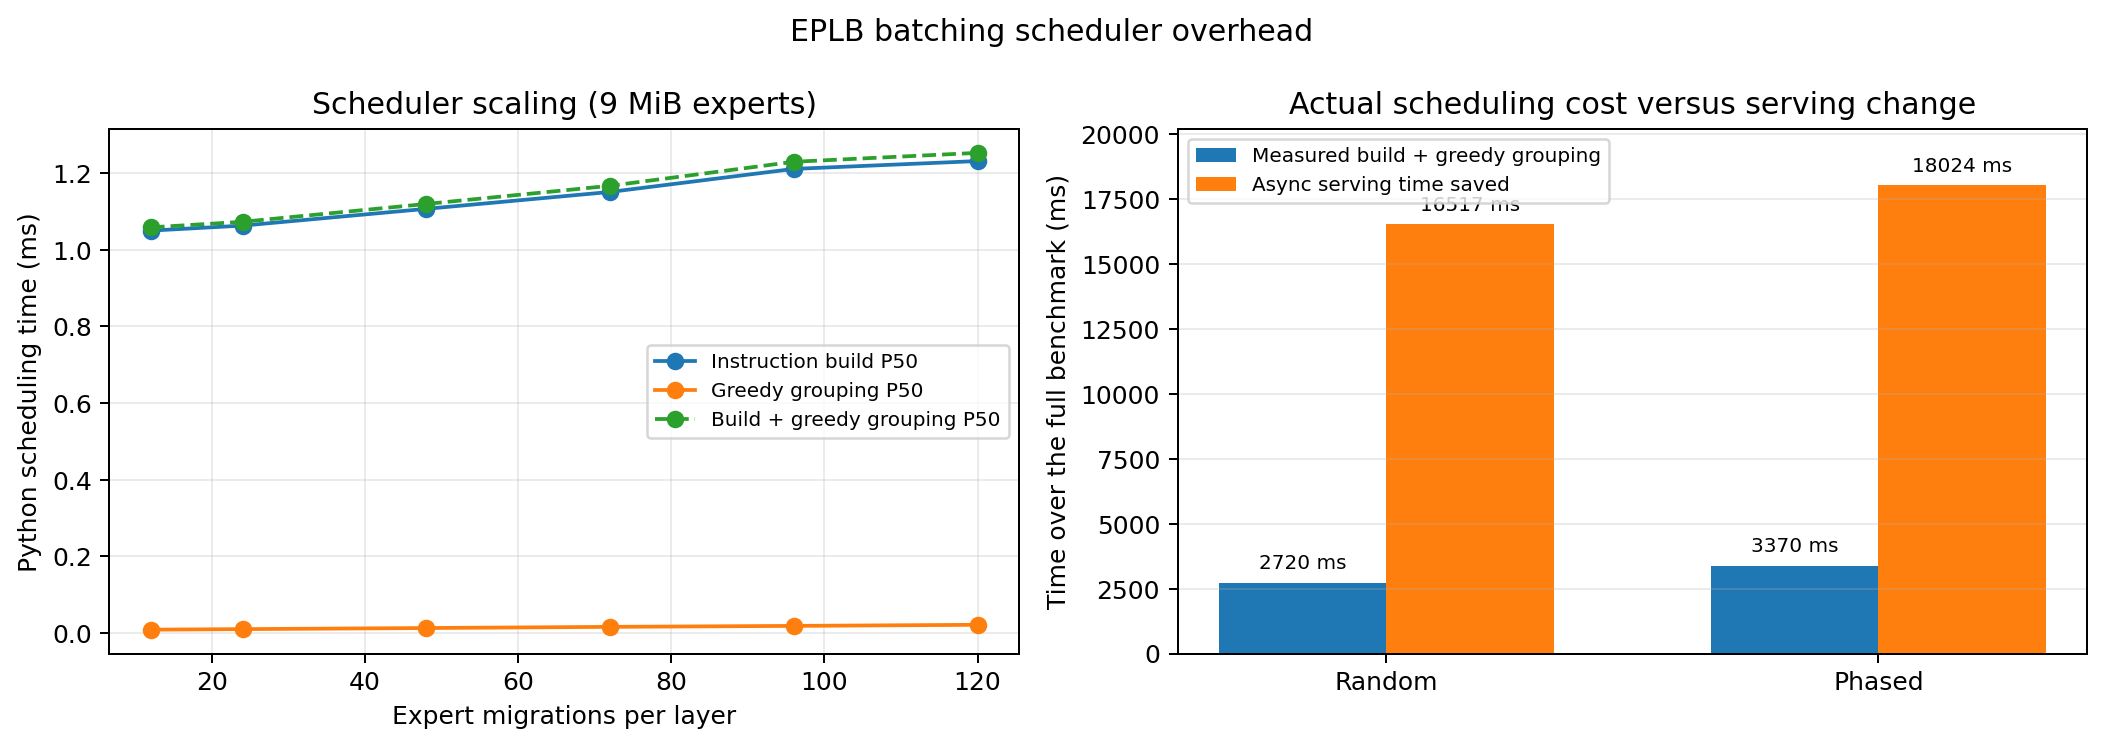
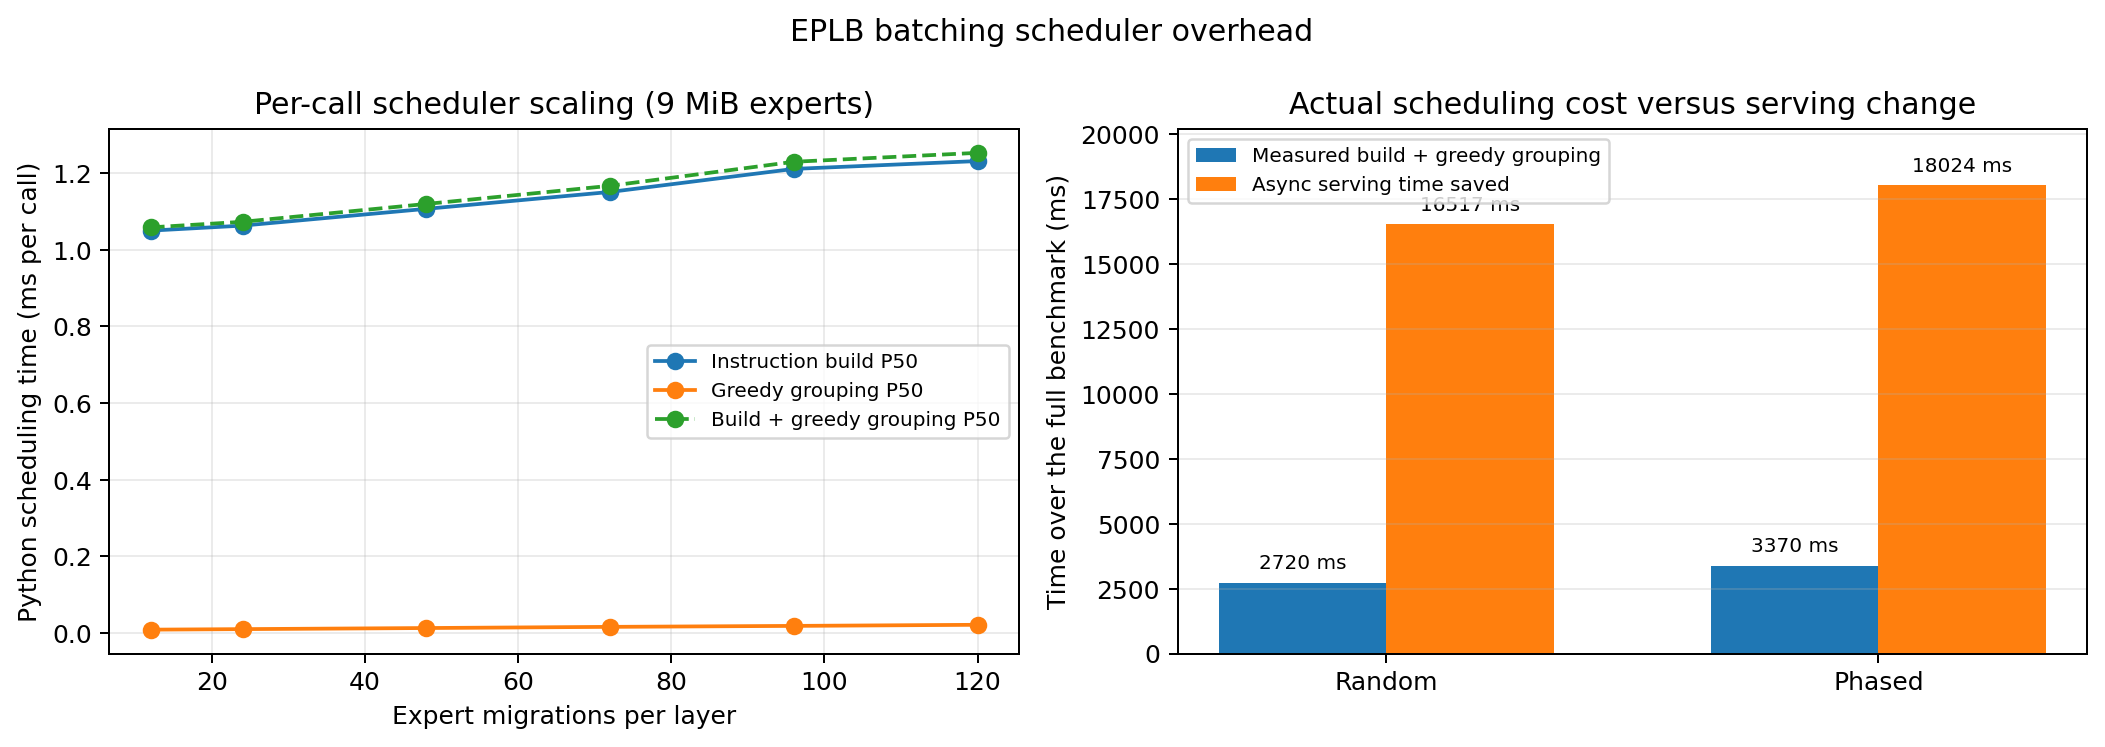
Clarify per-call scheduler profile units

diff --git a/benchmarks/eplb_rebalance/analyze_scheduler_scaling.py b/benchmarks/eplb_rebalance/analyze_scheduler_scaling.py
@@ -128,8 +128,8 @@ def plot(
         label="Build + greedy grouping P50",
     )
     scheduler.set_xlabel("Expert migrations per layer")
-    scheduler.set_ylabel("Python scheduling time (ms)")
-    scheduler.set_title("Scheduler scaling (9 MiB experts)")
+    scheduler.set_ylabel("Python scheduling time (ms per call)")
+    scheduler.set_title("Per-call scheduler scaling (9 MiB experts)")
     scheduler.grid(True, alpha=0.25)
     scheduler.legend(fontsize=8)
 

diff --git a/benchmarks/eplb_rebalance/README.md b/benchmarks/eplb_rebalance/README.md
@@ -248,6 +248,11 @@ rank, 12 directed rank-pair flows, six batches, and 9 MiB per expert. Each point
 has 500 scheduler repetitions; the raw files also retain ten alternating
 off/on NIXL migrations after two warmups.
 
+Each timing sample is one scheduler call on one rank for one migrated layer:
+one instruction build followed by one greedy grouping call. The P50/P99 values
+below and in the left plot are milliseconds per call, not cumulative benchmark
+time.
+
 Run the following command on all four nodes, changing `NODE_RANK` from 0 to 3.
 Repeat it with `MIGRATIONS_PER_FLOW=1,2,4,6,8,10`.
 
@@ -275,7 +280,7 @@ Qwen3-30B-A3B has `hidden_size=2048` and
 `moe_intermediate_size=768`. Its two FP16 expert matrices total exactly 9 MiB
 per expert, so the 9 MiB point matches the model used by the serving benchmark.
 
-| Migrations/layer | Build P50/P99 (ms) | Greedy P50/P99 (ms) | Total P50/P99 (ms) |
+| Migrations/call | Build P50/P99 (ms/call) | Greedy P50/P99 (ms/call) | Total P50/P99 (ms/call) |
 | ---: | ---: | ---: | ---: |
 | 12 | 1.050 / 1.188 | 0.008 / 0.019 | 1.058 / 1.197 |
 | 24 | 1.063 / 1.179 | 0.010 / 0.015 | 1.073 / 1.191 |
@@ -362,15 +367,16 @@ R = \frac{C_{\mathrm{actual}}}{S} \times 100\%, \qquad S > 0.
 $$
 
 The four ranks execute the same scheduler concurrently, so this uses one
-representative rank and does not sum or divide by four. Layers within that rank's
-async worker are processed sequentially.
+representative rank and does not sum or divide by four. Each migrated layer
+causes one scheduler call; calls within that rank's async worker are processed
+sequentially.
 
 | Workload | Layer migrations | Expert migrations | Actual build (ms) | Actual greedy (ms) | Actual total (ms) | Serving time saved (ms) | Ratio |
 | --- | ---: | ---: | ---: | ---: | ---: | ---: | ---: |
 | Random | 581 | 58,087 | 2,665.86 | 54.54 | 2,720.40 | 16,516.61 | 16.47% |
 | Phased English | 715 | 71,930 | 3,302.26 | 67.79 | 3,370.06 | 18,023.51 | 18.70% |
 
-| Workload | Build P50/P99 (ms/layer) | Greedy P50/P99 (ms/layer) | Total P50/P99 (ms/layer) |
+| Workload | Build P50/P99 (ms/call) | Greedy P50/P99 (ms/call) | Total P50/P99 (ms/call) |
 | --- | ---: | ---: | ---: |
 | Random | 4.550 / 6.396 | 0.092 / 0.187 | 4.642 / 6.558 |
 | Phased English | 4.532 / 6.934 | 0.092 / 0.184 | 4.625 / 7.026 |
